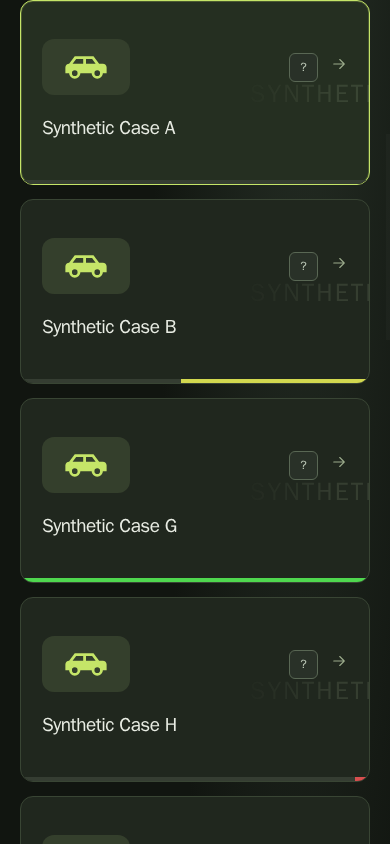
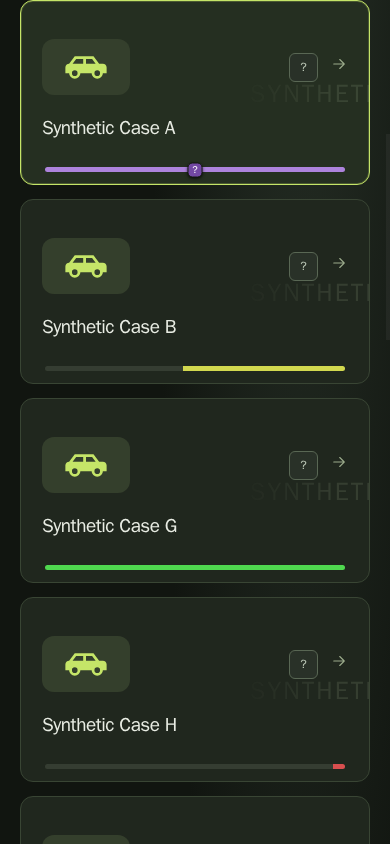
Make missing and expired HU dates visible in vehicle cards

diff --git a/frontend/styles.css b/frontend/styles.css
@@ -50,7 +50,7 @@
 .card-readiness.unavailable{color:#f6d1a7;border-color:#987044;background:#453523}
 .card-work{width:29px;padding:0;color:#f0c94b;background:#443b21;border-color:#987c36}
 .card-work svg{width:16px;height:16px;flex:none;stroke-width:1.8}
-.card-inspection-progress{position:absolute;left:24px;right:24px;bottom:12px;height:5px;display:grid;grid-template-columns:repeat(24,minmax(0,1fr));gap:0;overflow:hidden;border-radius:999px;background:#252c22;pointer-events:none}.card-inspection-cell{min-width:0;background:#353d32}.card-inspection-progress.unknown{background:#252c22}.card-inspection-progress.unknown .card-inspection-cell{background:#353d32}
+.card-inspection-progress{position:absolute;left:24px;right:24px;bottom:12px;height:5px;display:grid;grid-template-columns:repeat(24,minmax(0,1fr));gap:0;overflow:visible;border-radius:999px;background:#252c22;pointer-events:none}.card-inspection-cell{min-width:0;background:#353d32}.card-inspection-cell:first-child{border-radius:999px 0 0 999px}.card-inspection-cell:nth-child(24){border-radius:0 999px 999px 0}.card-inspection-progress.unknown .card-inspection-cell.filled{background:#ad83dc}.card-inspection-progress.expired .card-inspection-cell.filled{background:#ec5b55}.card-inspection-progress.unavailable .card-inspection-cell.filled{background:#788273}.card-inspection-progress.due .card-inspection-cell.filled{background:#e5bd4d}.card-inspection-marker{position:absolute;z-index:1;left:50%;top:50%;transform:translate(-50%,-50%);display:grid;place-items:center;min-width:15px;height:15px;padding:0 3px;border:1px solid #151912;border-radius:5px;background:#263022;color:#fff;font-size:10px;font-weight:900;line-height:1;box-shadow:0 1px 3px #000b}.card-inspection-progress.unknown .card-inspection-marker{background:#7248a3}.card-inspection-progress.expired .card-inspection-marker{background:#b62f2a}.card-inspection-progress.unavailable .card-inspection-marker{background:#50584c;color:#f0f2ed}.card-inspection-progress.due .card-inspection-marker{background:#8e6d18}
 @media(max-width:350px){.card-top{gap:4px}.card-indicators{gap:4px}.car-icon{width:80px}}
 
 .inspection-panel{margin:17px 0 8px;padding:14px 15px;border:1px solid #394534;border-radius:10px;background:#171d16}

diff --git a/frontend/app.js b/frontend/app.js
@@ -102,10 +102,17 @@ function inspectionBarCells(level, className) {
   });
 }
 function cardInspectionProgress(vehicle) {
-  const level = inspectionVisualLevel(vehicle);
-  const bar = el("span", `card-inspection-progress ${level === null ? "unknown" : `level-${level}`}`);
+  const valid = validInspection(vehicle), value = valid ? vehicle.inspection : null;
+  let level = inspectionVisualLevel(vehicle), stateClass = level === null ? "unavailable" : `level-${level}`, marker = "";
+  if (!valid) { level = 24; stateClass = "unavailable"; marker = "!"; }
+  else if (value.state === "unknown") { level = 24; stateClass = "unknown"; marker = "?"; }
+  else if (value.state === "overdue" || value.state === "blocking") { level = 24; stateClass = "expired"; marker = "!"; }
+  else if (value.state === "due") { level = 24; stateClass = "due"; }
+  const bar = el("span", `card-inspection-progress ${stateClass}`);
   bar.setAttribute("title", inspectionSummary(vehicle)); bar.setAttribute("aria-hidden", "true");
-  bar.replaceChildren(...inspectionBarCells(level, "card-inspection")); return bar;
+  const cells = inspectionBarCells(level, "card-inspection");
+  if (marker) { const badge = el("span", "card-inspection-marker", marker); badge.setAttribute("aria-hidden", "true"); cells.push(badge); }
+  bar.replaceChildren(...cells); return bar;
 }
 // These indicators share the existing header row; the detailed state remains in the accessible card name and detail panel.
 function cardIndicators(condition, issues, vehicleId, vehicle) {

diff --git a/docs/planning/inspection-status.md b/docs/planning/inspection-status.md
@@ -9,7 +9,7 @@ The stored value is nullable `YYYY-MM`. An unknown value stays `unknown` with no
 - Positive: `upcoming`; zero: `due`; minus one: `overdue`; minus two or less: `blocking`.
 - `validUntil` is the last calendar day of the due month. `blockingFrom` is the first day two calendar months after that month.
 - Thus an August due month becomes overdue during September and blocks the readiness projection on October 1 under this owner's policy. This is a product rule, not a statement of law.
-- The API compatibility fields remain `batteryLevel` (remaining month count clamped to 0–12) and `scaleMonths: 12`; unknown dates have a `null` battery level. The interface uses a separate, visual-only 24-month window derived from the unclamped `monthsUntilDue`: clamp that value to 0–24 for the display. At 24 or more months the bar is full green; as the date approaches, its remaining fill stays anchored to the right, empties from the left, and shifts gradually toward red. At zero or less the bar is empty. An unknown month has a neutral empty indicator. This 24-month display window is not a maintenance interval, does not infer a due date, and does not alter the API value or inspection policy.
+- The API compatibility fields remain `batteryLevel` (remaining month count clamped to 0–12) and `scaleMonths: 12`; unknown dates have a `null` battery level. The detail view uses a separate, visual-only 24-month window derived from unclamped `monthsUntilDue`: clamp that value to 0–24. At 24 or more months the bar is full green; as the date approaches, its fill remains anchored right, empties from the left, and shifts gradually toward red. At zero or less it is empty. The card-bottom indicator uses that scale for upcoming states and has explicit status markers: unknown month is a full purple bar with a centered `?`; current-month `due` is a full yellow bar and is not expired; `overdue` or `blocking` is a full red bar with a centered `!`. An invalid/unavailable projection uses a neutral gray full bar with `!`. These markers communicate status, not remaining time. The card's special colors do not change inspection state or readiness behavior. The display does not infer a due date, define a maintenance interval, or alter API values or inspection policy.
 
 The projected `effectiveReadiness` is `not_ready` if manually stored readiness is already `not_ready` or inspection state is `blocking`; otherwise it equals stored readiness. Inspection never changes the stored readiness, issue list, odometer readings, or history. Updating/clearing the due month removes only the inspection-derived block. Manual `not_ready` remains in effect.
 
@@ -23,7 +23,7 @@ Portable export format 2 includes the raw `inspectionDueMonth` in stored vehicle
 
 ## Acceptance focus
 
-Synthetic tests cover month and year boundaries, leap-year month ends, the Berlin date, clamped and unknown API compatibility values, manual/effective readiness separation, renewal and clearing behavior, stale revisions, invalid stored values, export shape, and explicit upgrades from schema 1/2/3 with rollback and backup checks. Browser acceptance uses a fixed-clock test-only WSGI app and synthetic vehicles. It checks the independent 24-month visual window and right-anchored fill. No live vehicle data belongs in fixtures or screenshots.
+Synthetic tests cover month and year boundaries, leap-year month ends, the Berlin date, clamped and unknown API compatibility values, manual/effective readiness separation, renewal and clearing behavior, stale revisions, invalid stored values, export shape, and explicit upgrades from schema 1/2/3 with rollback and backup checks. Browser acceptance uses a fixed-clock test-only WSGI app and synthetic vehicles. It checks the 24-month detail scale, card purple unknown/yellow due/red expired markers, and stable card height across supported viewports. No live vehicle data belongs in fixtures or screenshots.
 
 For the browser run, initialize a new temporary schema-4 database, then serve only the preview app on loopback. Its fixed clock is test-only:
 
@@ -38,7 +38,7 @@ In the isolated Chromium environment run `node tests/inspection_browser.cjs`. Th
 
 ## Verification evidence — 2026-10-28
 
-All 116 tests matching `test_own_*.py` passed. The real-Chromium acceptance run against the fixed-clock preview covered unknown, upcoming, due, overdue and blocking states; month editing and renewal; manual readiness preservation; the API's 12-month clamp; the visual 24-month scale (full green at 24+, right-aligned partial fill, red at one month, neutral empty for unknown); unchanged card height; and no horizontal overflow at 320, 390, 768 and 1280 pixels. Screenshots: [vehicle cards](../discovery/evidence/inspection-cards-mobile.png), [24-month status bar](../discovery/evidence/inspection-status-bar-mobile.png), and [320px INOP card](../discovery/evidence/inspection-inop-card-320.png). The earlier [battery-design screenshot](../discovery/evidence/inspection-battery-mobile.png) is retained as historical evidence only.
+All 116 tests matching `test_own_*.py` passed. Real Chromium passed against the fixed-clock preview: unknown, upcoming, due, overdue and blocking states; month editing and renewal; manual readiness preservation; the API's 12-month clamp; the visual 24-month scale; purple unknown, yellow current-month due, and red overdue/blocking card markers with centered badges; unchanged card heights; and no horizontal overflow at 320, 390, 768 and 1280 pixels. Current screenshots: [vehicle cards and status markers](../discovery/evidence/inspection-cards-mobile.png), [24-month detail bar](../discovery/evidence/inspection-status-bar-mobile.png), and [320px INOP card](../discovery/evidence/inspection-inop-card-320.png). The earlier [battery-design screenshot](../discovery/evidence/inspection-battery-mobile.png) is retained as historical evidence only.
 
 An isolated CLI rehearsal upgraded a copy of a synthetic schema-3 database to schema 4, verified the backup remained schema 3, restored that backup to a separate file, and checked it with the older schema-3 image. All six pre-existing tables' data matched across source and upgraded copy; only the vehicle rows gained the new nullable column. The original source copy was unchanged. These checks used synthetic data; no production migration or deployment was part of this verification.
 

diff --git a/docs/requirements.md b/docs/requirements.md
@@ -70,7 +70,7 @@ Status: Produktanforderungen mit entschiedener eigenständiger Entwicklung unter
 - REQ-052: Andere Betreiber können die Anwendung mit generischer Konfiguration und eigener Datenhaltung selbst installieren. Persönliche Fahrzeugdaten, Hostkonfiguration und Geheimnisse gehören nicht in die öffentliche Quelle oder Beispieldaten.
 - REQ-053: Der Kern funktioniert ohne verpflichtende Cloud-APIs. Cloudflare Access bleibt der gewünschte Eingang der Referenzinstallation; andere Betreiber können einen passenden authentifizierenden Reverse-Proxy einsetzen. Ein eigenes Mehrrollen- oder Mandantensystem wird dadurch nicht beauftragt.
 - REQ-054: Einen vom Betreiber eingegebenen HU-Fälligkeitsmonat als `YYYY-MM` speichern und daraus einen Europe/Berlin-Status sowie eine getrennte Readiness-Projektion ableiten. Ein unbekannter Monat bleibt unbekannt; die gespeicherte manuelle Fahrbereitschaft wird nicht verändert. Die Frist- und Blockierungsregel ist eine explizite Betreiberregel, keine Aussage über gesetzliche Fristen.
-- REQ-055: Den HU-Monat zusätzlich als schmale visuelle Leiste am Kartenboden und in der Detailansicht darstellen. Die Leiste nutzt ein festes 24-Monats-Anzeigefenster aus dem bereits abgeleiteten Monatsabstand: bei mindestens 24 Monaten voll und grün, dann rechts verankert mit von links abnehmender Füllung und graduellem Farbwechsel zu Rot, bei null oder weniger leer. Ein unbekannter Monat bleibt neutral und leer. Das Anzeigefenster ist ausschließlich visuell; es setzt keine Frist, leitet keine Intervalle ab und ändert weder Backend-/API-Felder noch die Betreiberregel.
+- REQ-055: Den HU-Monat als schmale visuelle Leiste am Kartenboden und in der Detailansicht darstellen. Die Detailansicht und nicht überschreibende Kartenzustände verwenden für bekannte Monate die 24-Monats-Anzeigeskala aus dem abgeleiteten Monatsabstand: bei mindestens 24 Monaten voll und grün, dann rechts verankert mit von links abnehmender Füllung und graduellem Farbwechsel zu Rot. Auf der Karte überschreibt ein voller violetter Balken mit zentriertem `?` bei unbekanntem Monat die Skala; `due` im aktuellen Monat zeigt einen vollen gelben Balken und ist noch nicht abgelaufen; `overdue` und `blocking` zeigen einen vollen roten Balken mit zentriertem `!`. Eine ungültige Projektion erscheint neutral grau mit `!`. Diese Statusmarker zeigen keinen Zeitfortschritt und ändern keine Inspection- oder Readiness-Regel. Die Skala ist ausschließlich visuell; sie setzt keine Frist, leitet keine Intervalle ab und ändert weder Backend-/API-Felder noch die Betreiberregel. Die Kartenhöhe bleibt dadurch unverändert.
 
 Der erste eigenständige Entwicklungsstand umfasst Fahrzeuge, unabhängige Fahrbereitschaft/offene Punkte, Kilometer, Service-/Reparaturbelege, Verlauf und Backup. Die abgeschlossenen Vorgänge und Kilometerstände lassen sich inzwischen vollständig, gefiltert und seitenweise browsen. Bereits implementiert sind begrenzte Belegkorrekturen an Beschreibung, Art, Kosten, Währung und Dokumentreferenz mit Begründung und Vorher-/Nachher-Verlauf. Bestehende offene Punkte können ein optionales Fälligkeitsdatum, einen vom Nutzer gesetzten Schweregrad (`observation`, `repair`, `critical`; `null` bedeutet nicht eingestuft) sowie `open`/`observed` als aktive Lebenszyklen erhalten. Ein lesendes Dashboard zeigt überfällige, heute fällige, kommende und undatierte Punkte mit Europe/Berlin-Tagesgrenzen. Ein gespeicherter HU-Monat erzeugt zusätzlich einen abgeleiteten Status und kann nach der dokumentierten Betreiberregel die Readiness-Projektion auf `not_ready` setzen; die manuelle Fahrbereitschaft und offene Punkte bleiben unverändert. Das ist keine Rechtsauskunft oder Bewertung einer gesetzlichen Frist. Das Dashboard für offene Arbeit ist ein begrenzter Arbeitsstatus für vorhandene Punkte, noch kein vollständiges technisches Logbuch: Diagnoseereignisse, Schweregrad-Historie, Wiederholungsfälle, wiederkehrende Intervalle und Erinnerungen bleiben offen. Korrekturen von Belegdatum und Kilometerstand bleiben weitere Arbeitspakete; ebenso Anhänge, Teile, Telegram, Kalender und KI. Die bestehenden Anforderungen werden dadurch nicht gestrichen.
 
